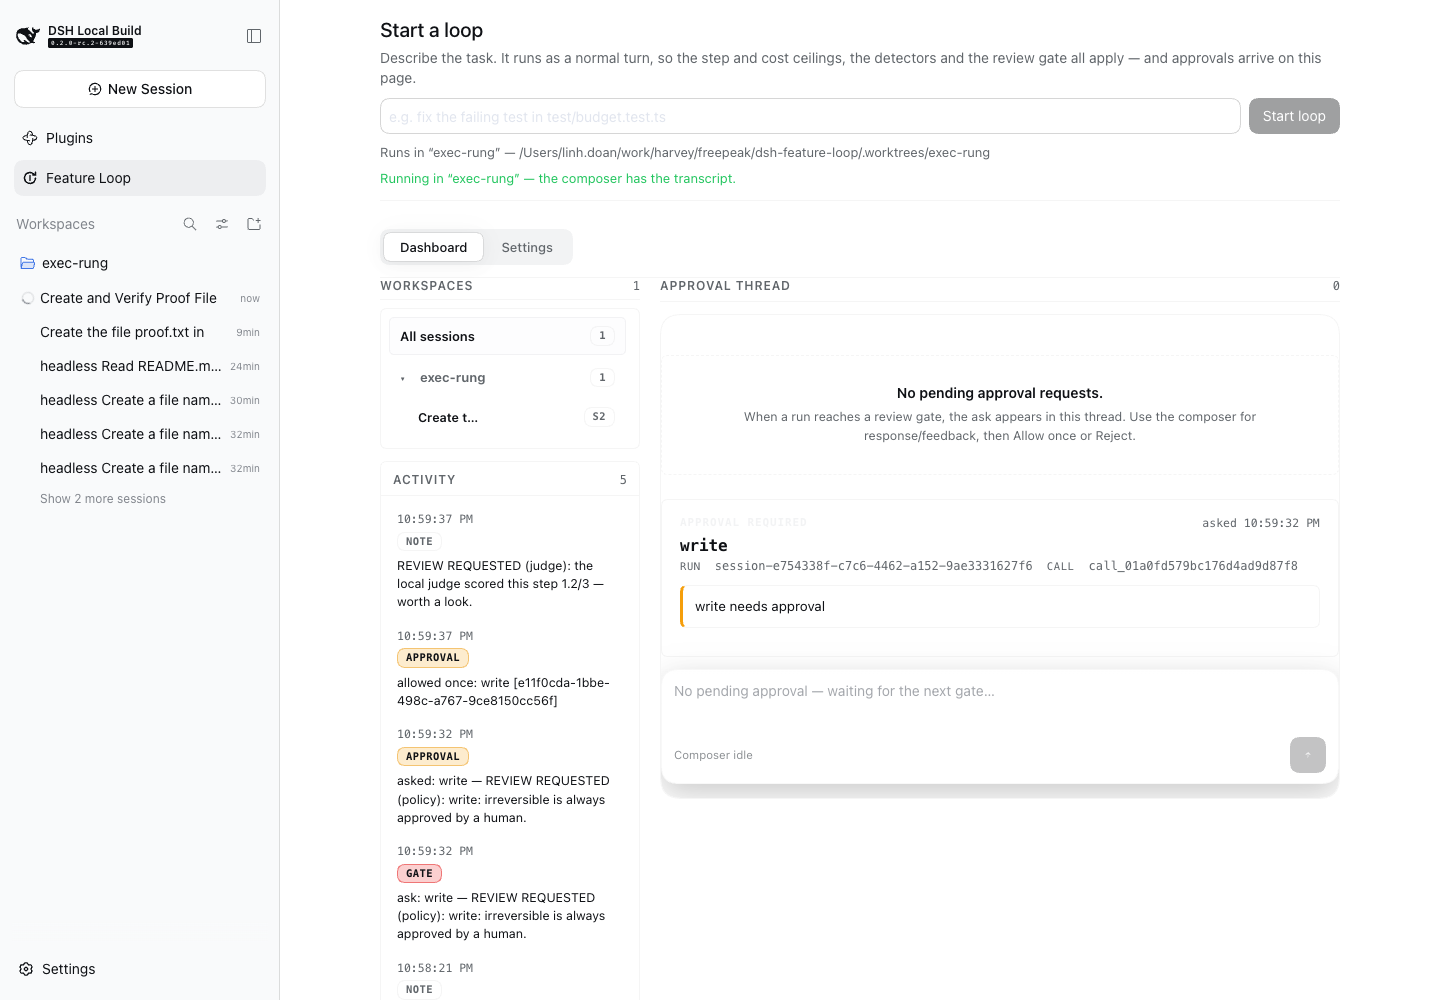
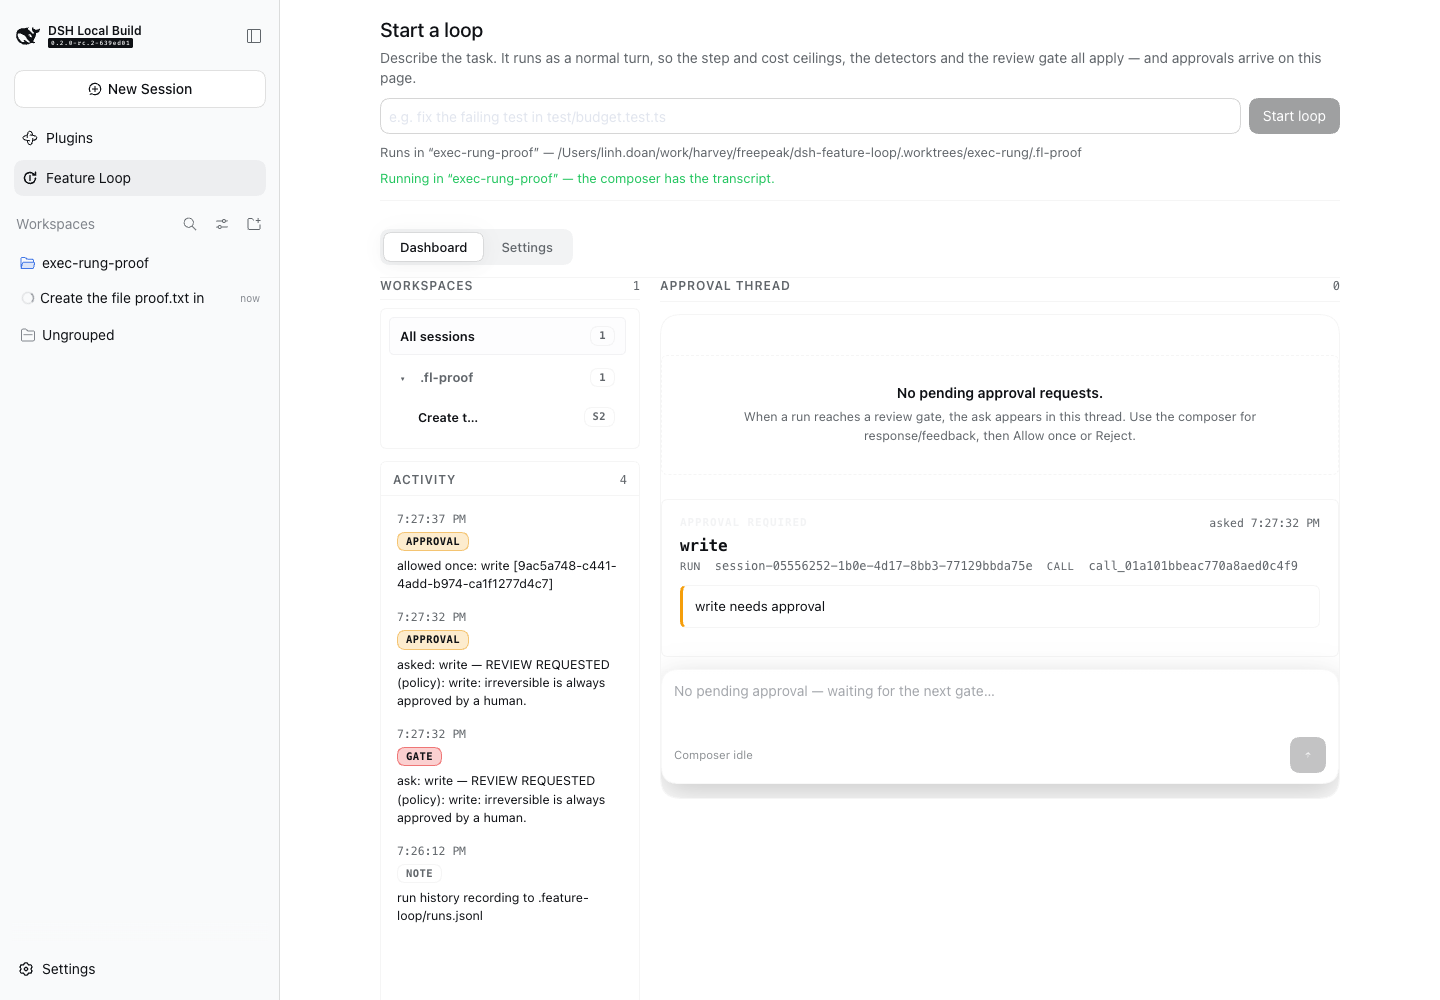
Re-prove the human path, 48 commits after the frames were taken
The committed in-ui frames came from commit b352fce. Forty-eight commits
have landed since, including §1be — which changed what the gate does when
nobody is watching — plus the settings page becoming real, the ladder
moving to `execution`, and the transport learning the bare wire id. Every
one of those changes lands between the click and the file, so the frames
are evidence for a build that no longer exists.

Re-ran both directions in a real browser against a freshly generated
profile with the current build installed:

  e2e-in-ui (allow):  Allow once → the file exists at …/.fl-proof/proof.txt
                     with content "hello"
  e2e-in-ui (reject): Reject → no file at …/.fl-proof/proof.txt

The card carried the gate reason verbatim, so the thing a human reads is
the thing the plugin said:

  REVIEW REQUESTED (policy): write: irreversible is always approved by a
  human.

Also corrected the README's test count, which said 449 where the local
suite runs 454. The number is in the quick start, which is the first thing
anyone reads, and it was five tests behind because nobody re-ran it after
the last few landed.

454 unit, make check green, security scan clean.

diff --git a/README.md b/README.md
@@ -211,7 +211,7 @@ and that is the intended behaviour, not a miss.
 ## Quick start
 
 ```bash
-# 449 tests, no network, no model call — the policy layer is pure
+# 454 tests, no network, no model call — the policy layer is pure
 node --experimental-strip-types --test test/*.test.ts
 
 # the end-to-end demo (needs onegw on :8080; it runs on onegw/execution)
